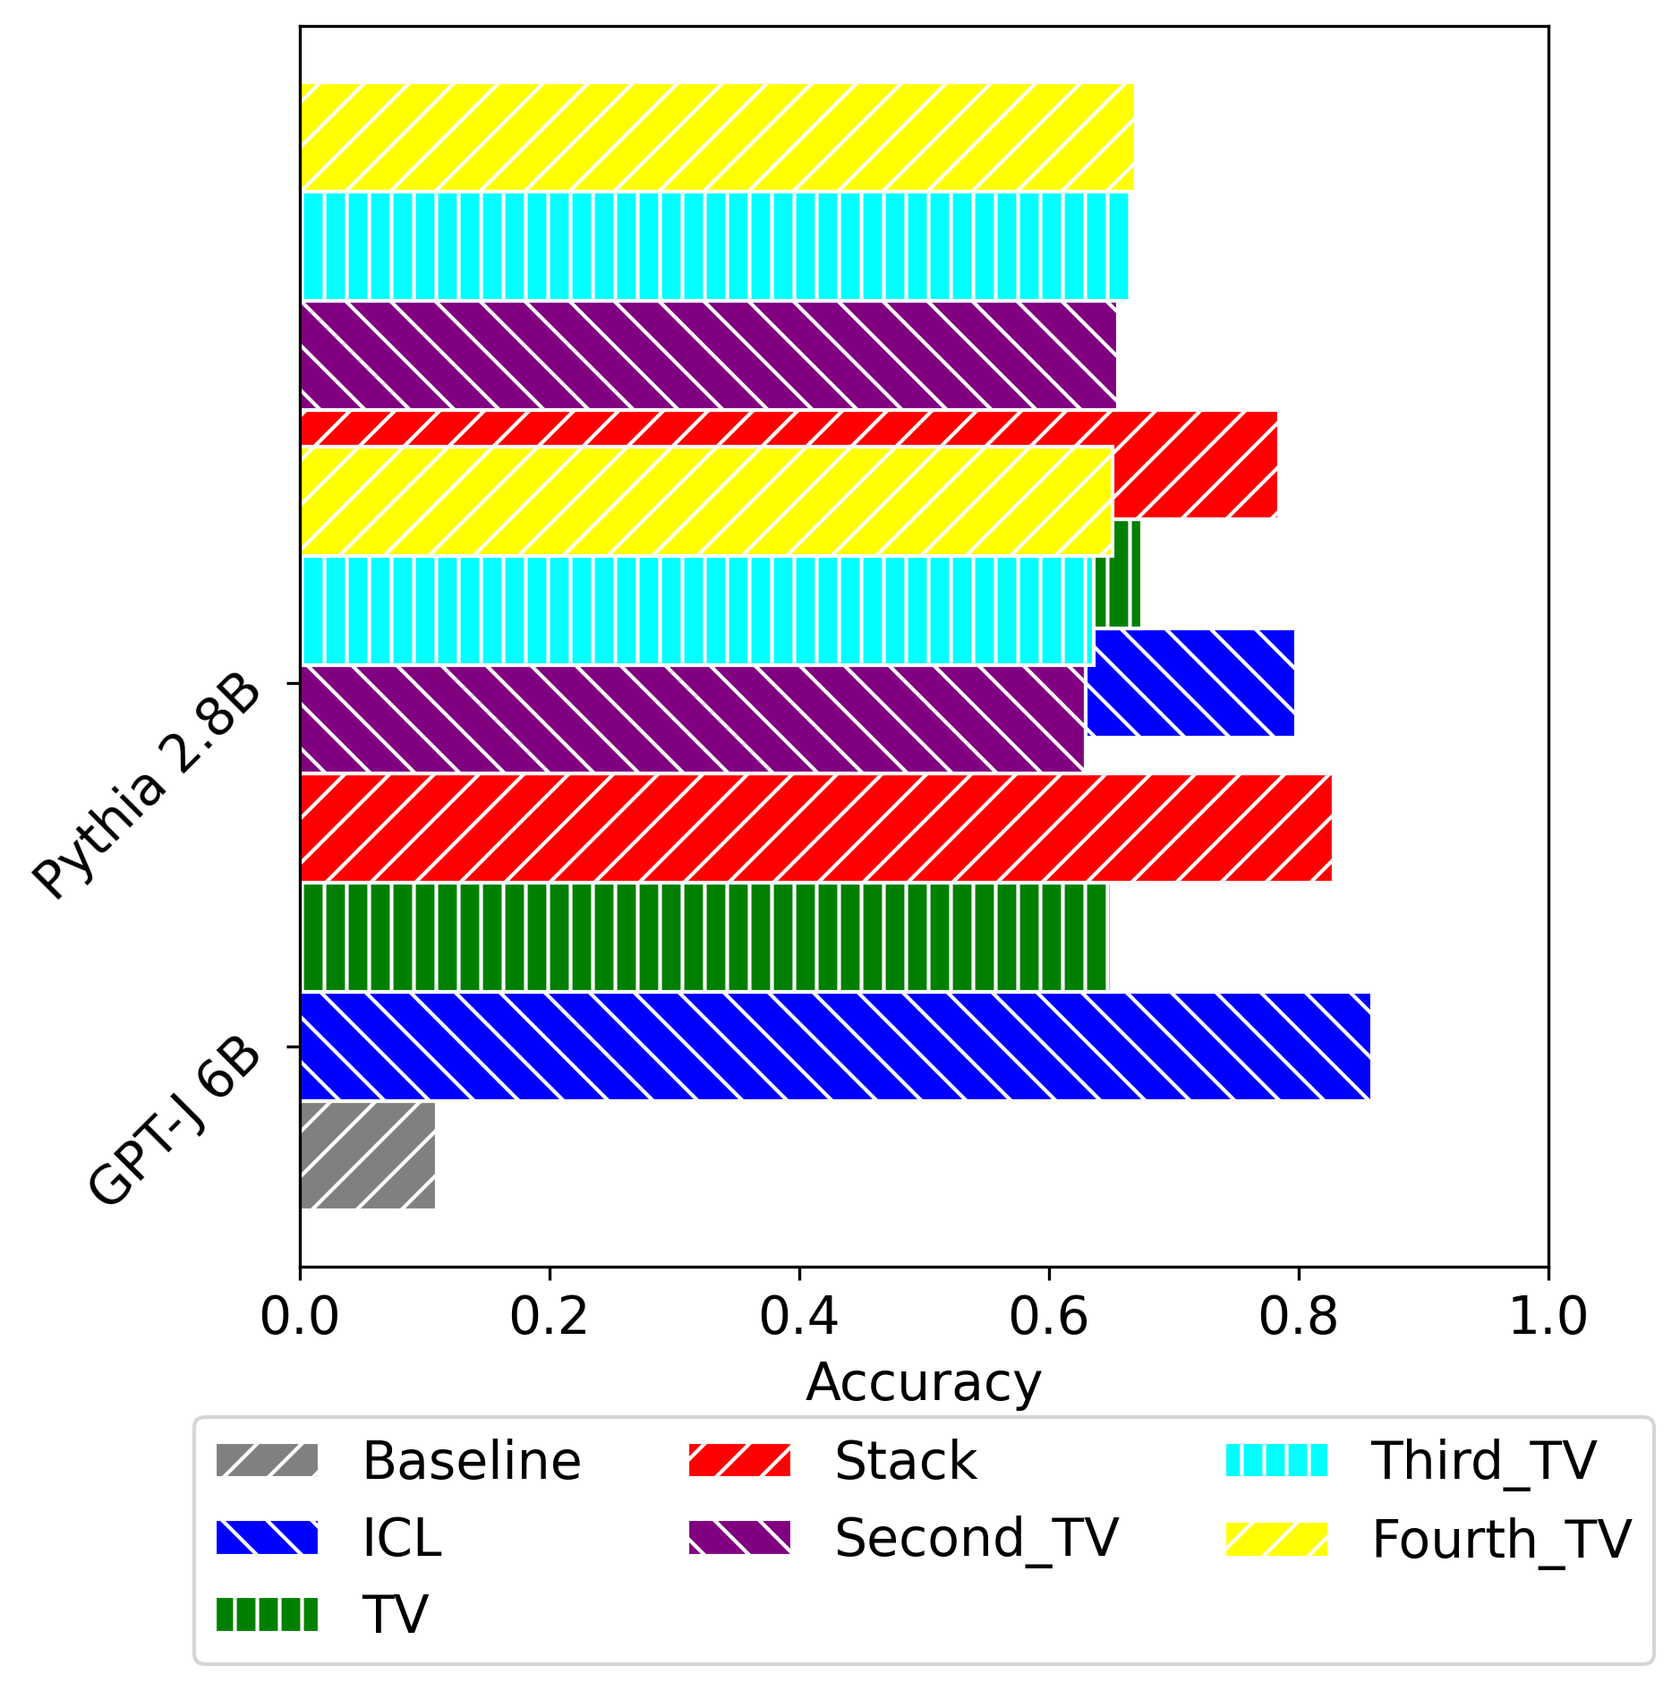
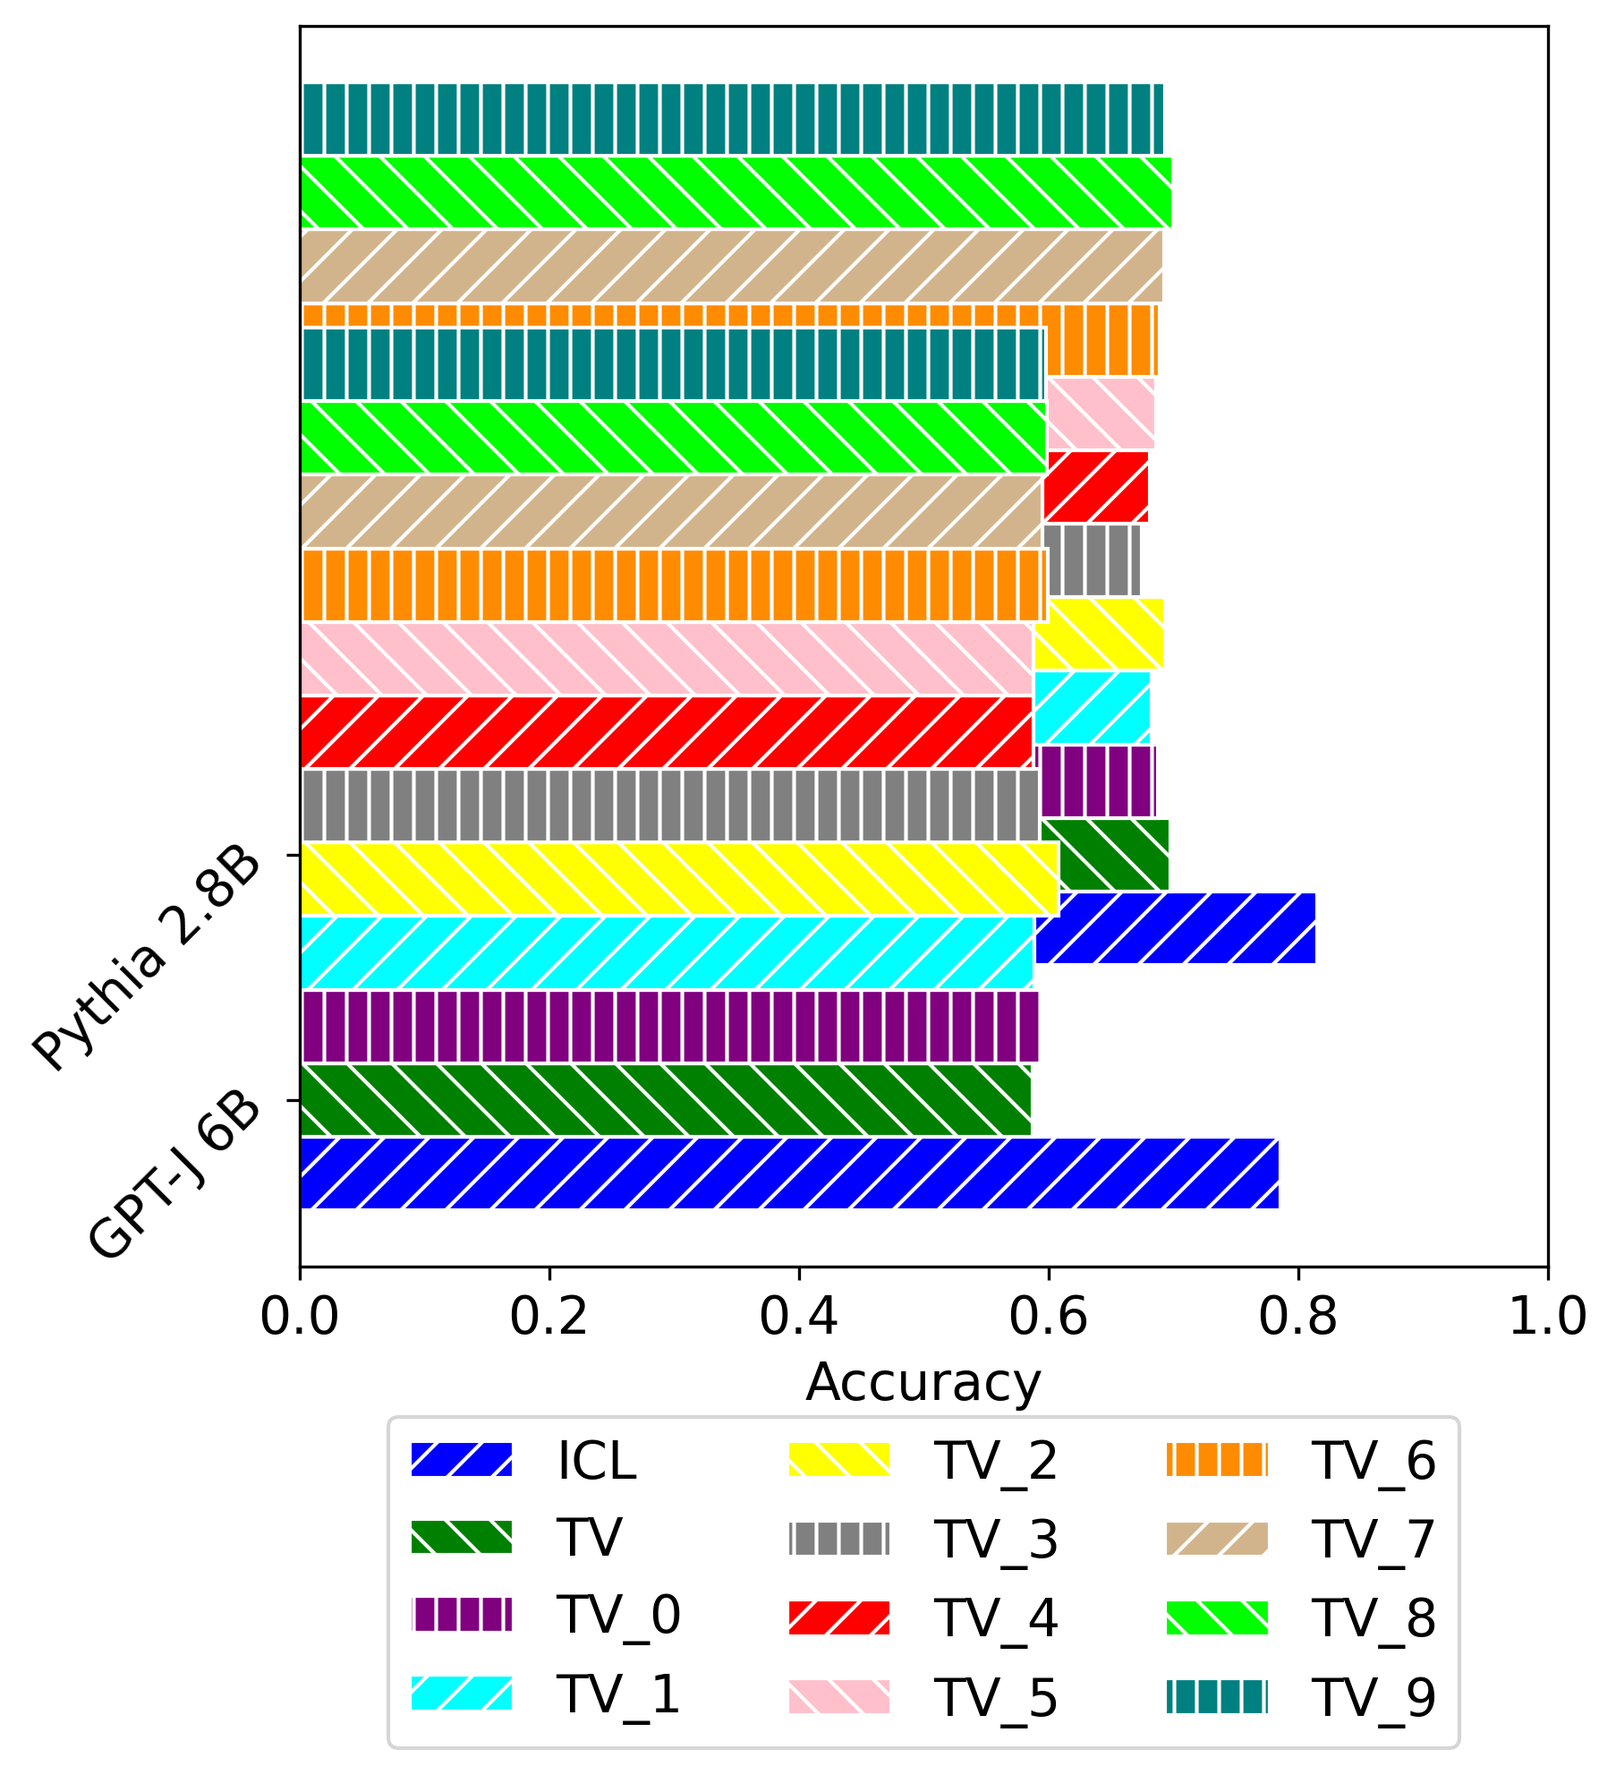
fig code

diff --git a/outputs/figures/main_experiment_results_table.tex b/outputs/figures/main_experiment_results_table.tex
@@ -1,68 +1,68 @@
 \onecolumn
 \begin{center}
 \small
-\begin{longtable}{lllrrrrrrr}
+\begin{longtable}{lllrrrrrrrrrrrrr}
 
 \caption{Complete results of the main experiment for all tasks and models.} \label{table:main_results} \\
 
 \toprule
- &  & method & Baseline & Fourth tv & Regular & Second tv & Stack & Tv & Third tv \\
-Model & Task type & Task name &  &  &  &  &  &  &  \\
+ &  & method & Baseline & Icl & Tv & Tv 0 & Tv 1 & Tv 2 & Tv 3 & Tv 4 & Tv 5 & Tv 6 & Tv 7 & Tv 8 & Tv 9 \\
+Model & Task type & Task name &  &  &  &  &  &  &  &  &  &  &  &  &  \\
 \midrule
     \endfirsthead
 
     \multicolumn{3}{c}
     {{\bfseries \tablename\ \thetable{} -- continued from previous page}} \\
     \toprule
- &  & method & Baseline & Fourth tv & Regular & Second tv & Stack & Tv & Third tv \\
-Model & Task type & Task name &  &  &  &  &  &  &  \\
+ &  & method & Baseline & Icl & Tv & Tv 0 & Tv 1 & Tv 2 & Tv 3 & Tv 4 & Tv 5 & Tv 6 & Tv 7 & Tv 8 & Tv 9 \\
+Model & Task type & Task name &  &  &  &  &  &  &  &  &  &  &  &  &  \\
 \midrule
     \endhead
     
-\multirow[t]{18}{*}{GPT-J 6B} & \multirow[t]{6}{*}{Algorithmic} & List first & 0.23 & 0.72 & 0.97 & 0.78 & 0.99 & 0.75 & 0.69 \\
- &  & List last & 0.31 & 0.56 & 0.97 & 0.59 & 0.99 & 0.51 & 0.50 \\
- &  & Next letter & 0.10 & 0.96 & 0.90 & 0.96 & 0.81 & 0.99 & 0.96 \\
- &  & Prev letter & 0.08 & 0.24 & 0.23 & 0.35 & 0.33 & 0.33 & 0.31 \\
- &  & To lower & 0.00 & 0.11 & 1.00 & 0.12 & 1.00 & 0.16 & 0.15 \\
- &  & To upper & 0.00 & 0.76 & 1.00 & 0.75 & 1.00 & 0.86 & 0.74 \\
-\cline{2-10}
- & \multirow[t]{4}{*}{Knowledge} & Country capital & 0.13 & 0.53 & 0.62 & 0.45 & 0.59 & 0.42 & 0.47 \\
- &  & Location continent & 0.04 & 0.55 & 0.69 & 0.41 & 0.46 & 0.44 & 0.59 \\
- &  & Location religion & 0.04 & 0.60 & 0.84 & 0.65 & 0.80 & 0.62 & 0.60 \\
- &  & Person language & 0.04 & 0.69 & 0.72 & 0.72 & 0.75 & 0.74 & 0.72 \\
-\cline{2-10}
- & \multirow[t]{4}{*}{Linguistic} & Antonyms & 0.41 & 0.75 & 0.84 & 0.69 & 0.85 & 0.74 & 0.71 \\
- &  & Plural singular & 0.09 & 0.70 & 0.86 & 0.76 & 0.80 & 0.78 & 0.79 \\
- &  & Present simple gerund & 0.00 & 0.72 & 0.96 & 0.69 & 0.86 & 0.72 & 0.71 \\
- &  & Present simple past simple & 0.00 & 0.66 & 0.91 & 0.55 & 0.86 & 0.65 & 0.56 \\
-\cline{2-10}
- & \multirow[t]{4}{*}{Translation} & En es & 0.24 & 0.30 & 0.36 & 0.24 & 0.41 & 0.31 & 0.29 \\
- &  & En fr & 0.23 & 0.31 & 0.38 & 0.29 & 0.39 & 0.30 & 0.31 \\
- &  & Es en & 0.12 & 0.75 & 0.86 & 0.74 & 0.88 & 0.76 & 0.72 \\
- &  & Fr en & 0.14 & 0.69 & 0.72 & 0.57 & 0.79 & 0.60 & 0.61 \\
-\cline{1-10} \cline{2-10}
-\multirow[t]{18}{*}{Pythia 2.8B} & \multirow[t]{6}{*}{Algorithmic} & List first & 0.65 & 0.90 & 1.00 & 0.88 & 1.00 & 0.94 & 0.95 \\
- &  & List last & 0.02 & 0.95 & 0.99 & 0.97 & 0.97 & 0.99 & 0.95 \\
- &  & Next letter & 0.35 & 0.78 & 0.95 & 0.70 & 0.93 & 0.74 & 0.78 \\
- &  & Prev letter & 0.04 & 0.17 & 0.23 & 0.11 & 0.14 & 0.15 & 0.19 \\
- &  & To lower & 0.00 & 0.97 & 1.00 & 0.96 & 1.00 & 1.00 & 0.94 \\
- &  & To upper & 0.00 & 0.99 & 1.00 & 0.93 & 1.00 & 0.96 & 0.97 \\
-\cline{2-10}
- & \multirow[t]{4}{*}{Knowledge} & Country capital & 0.11 & 0.53 & 0.64 & 0.53 & 0.56 & 0.53 & 0.53 \\
- &  & Location continent & 0.03 & 0.57 & 0.70 & 0.45 & 0.53 & 0.49 & 0.60 \\
- &  & Location religion & 0.04 & 0.54 & 0.69 & 0.57 & 0.71 & 0.61 & 0.55 \\
- &  & Person language & 0.04 & 0.69 & 0.68 & 0.69 & 0.69 & 0.64 & 0.69 \\
-\cline{2-10}
- & \multirow[t]{4}{*}{Linguistic} & Antonyms & 0.39 & 0.70 & 0.76 & 0.66 & 0.75 & 0.66 & 0.69 \\
- &  & Plural singular & 0.13 & 0.62 & 0.75 & 0.62 & 0.71 & 0.65 & 0.53 \\
- &  & Present simple gerund & 0.00 & 0.76 & 0.89 & 0.71 & 0.94 & 0.76 & 0.71 \\
- &  & Present simple past simple & 0.00 & 0.75 & 0.91 & 0.76 & 0.91 & 0.76 & 0.75 \\
-\cline{2-10}
- & \multirow[t]{4}{*}{Translation} & En es & 0.08 & 0.16 & 0.61 & 0.19 & 0.62 & 0.19 & 0.17 \\
- &  & En fr & 0.16 & 0.26 & 0.47 & 0.28 & 0.49 & 0.28 & 0.26 \\
- &  & Es en & 0.13 & 0.66 & 0.81 & 0.70 & 0.79 & 0.69 & 0.68 \\
- &  & Fr en & 0.15 & 0.55 & 0.71 & 0.54 & 0.74 & 0.59 & 0.59 \\
-\cline{1-10} \cline{2-10}
+\multirow[t]{18}{*}{GPT-J 6B} & \multirow[t]{6}{*}{Algorithmic} & List first & 0.23 & 0.97 & 0.75 & 0.78 & 0.69 & 0.72 & 0.74 & 0.78 & 0.72 & 0.78 & 0.74 & 0.74 & 0.76 \\
+ &  & List last & 0.31 & 0.97 & 0.51 & 0.59 & 0.50 & 0.56 & 0.49 & 0.57 & 0.59 & 0.55 & 0.50 & 0.56 & 0.54 \\
+ &  & Next letter & 0.13 & 0.78 & 0.96 & 0.99 & 0.94 & 0.89 & 0.95 & 0.97 & 0.95 & 0.94 & 0.95 & 0.93 & 0.93 \\
+ &  & Prev letter & 0.10 & 0.31 & 0.20 & 0.20 & 0.24 & 0.24 & 0.25 & 0.24 & 0.21 & 0.20 & 0.20 & 0.25 & 0.30 \\
+ &  & To lower & 0.00 & 1.00 & 0.19 & 0.23 & 0.20 & 0.25 & 0.24 & 0.24 & 0.25 & 0.19 & 0.26 & 0.20 & 0.26 \\
+ &  & To upper & 0.00 & 1.00 & 0.80 & 0.71 & 0.79 & 0.81 & 0.81 & 0.79 & 0.69 & 0.74 & 0.72 & 0.76 & 0.81 \\
+\cline{2-16}
+ & \multirow[t]{4}{*}{Knowledge} & Country capital & 0.12 & 0.65 & 0.49 & 0.40 & 0.49 & 0.53 & 0.55 & 0.38 & 0.41 & 0.45 & 0.47 & 0.41 & 0.44 \\
+ &  & Location continent & 0.01 & 0.72 & 0.50 & 0.54 & 0.45 & 0.51 & 0.40 & 0.51 & 0.49 & 0.50 & 0.47 & 0.50 & 0.46 \\
+ &  & Location religion & 0.07 & 0.85 & 0.59 & 0.72 & 0.66 & 0.74 & 0.65 & 0.70 & 0.55 & 0.65 & 0.68 & 0.68 & 0.69 \\
+ &  & Person language & 0.01 & 0.74 & 0.65 & 0.70 & 0.69 & 0.66 & 0.75 & 0.66 & 0.69 & 0.75 & 0.72 & 0.72 & 0.68 \\
+\cline{2-16}
+ & \multirow[t]{4}{*}{Linguistic} & Antonyms & 0.41 & 0.75 & 0.69 & 0.72 & 0.70 & 0.71 & 0.72 & 0.68 & 0.74 & 0.74 & 0.71 & 0.70 & 0.75 \\
+ &  & Plural singular & 0.06 & 0.91 & 0.79 & 0.69 & 0.75 & 0.85 & 0.72 & 0.72 & 0.70 & 0.76 & 0.78 & 0.80 & 0.75 \\
+ &  & Present simple gerund & 0.00 & 0.95 & 0.64 & 0.61 & 0.64 & 0.62 & 0.60 & 0.61 & 0.65 & 0.72 & 0.66 & 0.64 & 0.65 \\
+ &  & Present simple past simple & 0.00 & 0.89 & 0.64 & 0.60 & 0.68 & 0.56 & 0.65 & 0.61 & 0.64 & 0.57 & 0.59 & 0.66 & 0.61 \\
+\cline{2-16}
+ & \multirow[t]{4}{*}{Translation} & En es & 0.21 & 0.44 & 0.33 & 0.40 & 0.39 & 0.38 & 0.35 & 0.38 & 0.38 & 0.38 & 0.39 & 0.36 & 0.31 \\
+ &  & En fr & 0.22 & 0.46 & 0.47 & 0.42 & 0.44 & 0.51 & 0.41 & 0.39 & 0.47 & 0.42 & 0.42 & 0.47 & 0.45 \\
+ &  & Es en & 0.09 & 0.93 & 0.79 & 0.78 & 0.74 & 0.74 & 0.75 & 0.79 & 0.80 & 0.78 & 0.78 & 0.76 & 0.72 \\
+ &  & Fr en & 0.09 & 0.81 & 0.59 & 0.62 & 0.64 & 0.65 & 0.64 & 0.57 & 0.66 & 0.68 & 0.66 & 0.62 & 0.65 \\
+\cline{1-16} \cline{2-16}
+\multirow[t]{18}{*}{Pythia 2.8B} & \multirow[t]{6}{*}{Algorithmic} & List first & 0.65 & 1.00 & 0.94 & 0.88 & 0.95 & 0.90 & 0.96 & 0.89 & 0.94 & 0.95 & 0.94 & 0.93 & 0.91 \\
+ &  & List last & 0.02 & 0.99 & 0.99 & 0.97 & 0.95 & 0.95 & 0.96 & 0.99 & 0.97 & 0.97 & 0.99 & 0.97 & 1.00 \\
+ &  & Next letter & 0.44 & 0.93 & 0.81 & 0.76 & 0.71 & 0.78 & 0.79 & 0.82 & 0.78 & 0.76 & 0.82 & 0.80 & 0.76 \\
+ &  & Prev letter & 0.05 & 0.23 & 0.10 & 0.12 & 0.12 & 0.10 & 0.14 & 0.10 & 0.19 & 0.10 & 0.19 & 0.10 & 0.16 \\
+ &  & To lower & 0.00 & 1.00 & 0.97 & 0.97 & 0.95 & 0.94 & 0.99 & 0.97 & 0.99 & 0.95 & 0.96 & 1.00 & 0.99 \\
+ &  & To upper & 0.00 & 1.00 & 0.99 & 0.96 & 0.99 & 0.96 & 0.97 & 0.96 & 0.96 & 0.97 & 0.95 & 0.97 & 0.99 \\
+\cline{2-16}
+ & \multirow[t]{4}{*}{Knowledge} & Country capital & 0.15 & 0.54 & 0.51 & 0.50 & 0.51 & 0.53 & 0.56 & 0.47 & 0.56 & 0.47 & 0.54 & 0.45 & 0.53 \\
+ &  & Location continent & 0.03 & 0.69 & 0.51 & 0.50 & 0.50 & 0.62 & 0.42 & 0.53 & 0.46 & 0.55 & 0.50 & 0.56 & 0.54 \\
+ &  & Location religion & 0.07 & 0.79 & 0.66 & 0.65 & 0.65 & 0.71 & 0.54 & 0.61 & 0.62 & 0.64 & 0.69 & 0.65 & 0.65 \\
+ &  & Person language & 0.00 & 0.64 & 0.70 & 0.66 & 0.74 & 0.70 & 0.65 & 0.69 & 0.70 & 0.70 & 0.68 & 0.65 & 0.74 \\
+\cline{2-16}
+ & \multirow[t]{4}{*}{Linguistic} & Antonyms & 0.47 & 0.78 & 0.72 & 0.74 & 0.68 & 0.72 & 0.69 & 0.69 & 0.66 & 0.69 & 0.70 & 0.74 & 0.69 \\
+ &  & Plural singular & 0.07 & 0.86 & 0.76 & 0.79 & 0.80 & 0.79 & 0.76 & 0.78 & 0.80 & 0.85 & 0.76 & 0.82 & 0.76 \\
+ &  & Present simple gerund & 0.00 & 0.93 & 0.81 & 0.72 & 0.71 & 0.79 & 0.79 & 0.70 & 0.81 & 0.76 & 0.75 & 0.79 & 0.76 \\
+ &  & Present simple past simple & 0.02 & 0.85 & 0.75 & 0.79 & 0.71 & 0.71 & 0.71 & 0.72 & 0.74 & 0.71 & 0.75 & 0.78 & 0.74 \\
+\cline{2-16}
+ & \multirow[t]{4}{*}{Translation} & En es & 0.13 & 0.65 & 0.15 & 0.23 & 0.21 & 0.20 & 0.23 & 0.20 & 0.17 & 0.19 & 0.21 & 0.19 & 0.17 \\
+ &  & En fr & 0.10 & 0.57 & 0.29 & 0.29 & 0.26 & 0.26 & 0.24 & 0.30 & 0.28 & 0.28 & 0.28 & 0.30 & 0.30 \\
+ &  & Es en & 0.11 & 0.88 & 0.71 & 0.68 & 0.68 & 0.66 & 0.61 & 0.65 & 0.62 & 0.65 & 0.64 & 0.69 & 0.65 \\
+ &  & Fr en & 0.14 & 0.79 & 0.57 & 0.60 & 0.60 & 0.56 & 0.59 & 0.60 & 0.59 & 0.61 & 0.62 & 0.61 & 0.61 \\
+\cline{1-16} \cline{2-16}
 \bottomrule
 \end{longtable}
 

diff --git a/scripts/figures/main.py b/scripts/figures/main.py
@@ -20,15 +20,15 @@ from scripts.figures.helpers import (
 
 
 def filter_tasks_with_low_icl_accuracy(grouped_accuracies_df, regular_accuracy_threshold=0.20):
-    mask = (grouped_accuracies_df["Regular"] - grouped_accuracies_df["Baseline"]) >= regular_accuracy_threshold
+    mask = (grouped_accuracies_df["ICL"] - grouped_accuracies_df["Baseline"]) >= regular_accuracy_threshold
     filtered_task_accuracies_df = grouped_accuracies_df[mask].copy()
 
     # print the excluded model,task pairs, Hypothesis by commas
     if not mask.all():
         print(
             "Excluded:",
-            grouped_accuracies_df[~mask][["model", "task_name", "Regular"]].apply(
-                lambda x: f"({x['model']}, {x['task_name']}): {x['Regular']:.2f}", axis=1
+            grouped_accuracies_df[~mask][["model", "task_name", "ICL"]].apply(
+                lambda x: f"({x['model']}, {x['task_name']}): {x['ICL']:.2f}", axis=1
             ),
         )
     print("Num excluded / total:", (~mask).sum(), "/", len(grouped_accuracies_df))
@@ -39,7 +39,8 @@ def filter_tasks_with_low_icl_accuracy(grouped_accuracies_df, regular_accuracy_t
 def plot_avg_accuracies_per_model(grouped_accuracies_df):
     filtered_task_accuracies_df = filter_tasks_with_low_icl_accuracy(grouped_accuracies_df)
 
-    columns_to_plot = ["Regular", "TV", "Second_TV", "Third_TV", "Fourth_TV"]
+    columns_to_plot = ["ICL", "TV"] + [f"TV_{idx}" for idx in range(10)]
+    colors = ["blue", "green", "purple", "cyan", "yellow", "grey", "red", "pink", "darkorange", "tan", "lime", "teal", "peru"]
 
     # Calculate average accuracy and std deviation for each model
     df_agg = filtered_task_accuracies_df.groupby("model")[columns_to_plot].agg("mean")
@@ -56,7 +57,7 @@ def plot_avg_accuracies_per_model(grouped_accuracies_df):
     fig, ax = plt.subplots(figsize=(6, 6))
 
     bar_width = 0.3
-    hatches = ["/", "\\", "|", "/", "\\", "|", "/", "\\", "|", "/", "\\"]
+    hatches = ["/", "\\", "|", "/", "\\", "|", "/", "\\", "|", "/", "\\", "|", "/", "\\"]
     for j, column in enumerate(columns_to_plot):
         means = df_agg[column]
         y_positions = np.arange(len(means)) + (j - 1) * bar_width
@@ -66,7 +67,7 @@ def plot_avg_accuracies_per_model(grouped_accuracies_df):
             means,
             height=bar_width,
             capsize=2,
-            color=["blue", "green", "purple", "cyan", "yellow", "grey", "red"][j],
+            color=colors[j],
             edgecolor="white",
             hatch=hatches[j] * 2,
         )
@@ -81,11 +82,7 @@ def plot_avg_accuracies_per_model(grouped_accuracies_df):
 
     # show legend below the plot
     legend_elements = [
-        Patch(facecolor="blue", edgecolor="white", hatch=hatches[1] * 2, label="ICL"),
-        Patch(facecolor="green", edgecolor="white", hatch=hatches[2] * 2, label="TV"),
-        Patch(facecolor="purple", edgecolor="white", hatch=hatches[3] * 2, label="Second_TV"),
-        Patch(facecolor="cyan", edgecolor="white", hatch=hatches[4] * 2, label="Third_TV"),
-        Patch(facecolor="yellow", edgecolor="white", hatch=hatches[5] * 2, label="Fourth_TV")
+        Patch(facecolor=colors[i], edgecolor="white", hatch=hatches[i] * 2, label=name) for i, name in enumerate(columns_to_plot)
     ]
     ax.legend(handles=legend_elements, loc="upper center", bbox_to_anchor=(0.5, -0.1), ncol=3)
 
@@ -312,5 +309,5 @@ def create_all_figures(experiment_id: str):
 
 
 if __name__ == "__main__":
-    experiment_id = "10"
+    experiment_id = "12"
     create_all_figures(experiment_id)

diff --git a/outputs/figures/top_tokens_table.tex b/outputs/figures/top_tokens_table.tex
@@ -2,15 +2,15 @@
 \toprule
  &  & 0 \\
 \midrule
-\multirow[t]{4}{*}{pythia_2.8B} & algorithmic_prev_letter & OOST, aeda, HECK, CURI, thous, PARTICULAR, perty, REEK, IRST, gether, woke, ovember, CLUDING, ibase, ENSE, hov, UGH, FileType, vess, Annotation \\
- & translation_fr_en & OOST, CURI, CHANT, HECK, Lemmon, orect, PLIED, RAF, IRST, CLUDING, fileID, BASIS, ovember, aturday, Anchor, PARTICULAR, ERTY, STITUTE, gree, OLOR \\
- & linguistic_present_simple_gerund & PLIED, RAF, CHANT, YING, OOST, completing, fileID, CLUDING, turning, Accessor, unnumbered, pretending, CURI, heed, rv, ovember, HECK, satell, finishing, cler \\
- & knowledge_country_capital & thous, answ, HECK, establ, advertis, laug, OOST, uncert, CURI, POSE, orche, clust, acknow, NaN, satell, strugg, therap, behav, dun, ITERATION \\
+\multirow[t]{4}{*}{pythia_2.8B} & algorithmic_prev_letter & aeda, thous, preced, OOST, preceded, ovember, CURI, prehens, perty, preceding, estern, IRST, previous, PARTICULAR, enburg, CLUDING, advertis, alphabet, none, sg \\
+ & translation_fr_en & OOST, CURI, CHANT, HECK, Lemmon, orect, aturday, IRST, BASIS, RAF, PLIED, Anchor, fileID, CLUDING, rapeutics, ovember, quo, unnumbered, YING, ERTY \\
+ & linguistic_present_simple_gerund & PLIED, RAF, OOST, CHANT, YING, fileID, CURI, satell, Accessor, CLUDING, ovember, unnumbered, turning, IRST, completing, quo, HECK, rv, heed, pretending \\
+ & knowledge_country_capital & thous, answ, HECK, OOST, CURI, RAF, uncert, advertis, laug, establ, orche, CHANT, POSE, strugg, REEK, acknow, ITERATION, clust, fileID, behav \\
 \cline{1-3}
-\multirow[t]{4}{*}{gpt-j_6B} & algorithmic_prev_letter & b, c, name, v, s, g, i, ro, n, a, test, t, m, d, active, j, ust, open, com, ma \\
- & translation_fr_en & name, other, the, true, is, social, s, active, car, F, public, ms, whole, head, a, heart, n, one, type, b \\
- & linguistic_present_simple_gerund & storing, getting, working, playing, making, moving, doing, being, driving, using, the, putting, picking, sending, selling, shooting, reducing, creating, teaching, changing \\
- & knowledge_country_capital & London, South, West, Paris, East, New, Berlin, Tokyo, Germany, North, Chicago, The, Philadelphia, Mexico, San, Jerusalem, cities, City, Amsterdam, Moscow \\
+\multirow[t]{4}{*}{gpt-j_6B} & algorithmic_prev_letter & b, name, c, s, v, g, n, ro, i, test, a, t, m, d, active, j, open, ma, com, next \\
+ & translation_fr_en & social, other, name, time, the, law, user, force, heart, main, c, money, life, car, s, is, head, court, game, translation \\
+ & linguistic_present_simple_gerund & working, getting, storing, playing, moving, being, doing, driving, making, shooting, teaching, the, selling, writing, picking, using, feeding, talking, putting, c \\
+ & knowledge_country_capital & London, West, South, Paris, East, New, Berlin, Germany, City, Tokyo, North, Philadelphia, Chicago, Jerusalem, Mexico, San, The, cities, Moscow, s \\
 \cline{1-3}
 \bottomrule
 \end{tabular}

diff --git a/scripts/figures/helpers.py b/scripts/figures/helpers.py
@@ -51,10 +51,7 @@ def extract_accuracies(results):
                 "bl": task_results["baseline_accuracy"],
                 "icl": task_results["icl_accuracy"],
                 "tv": task_results["tv_accuracy"],
-                "stack_tv_accuracy": task_results["stack_tv_accuracy"],
-                "second_tv_accuracy": task_results["second_tv_accuracy"],
-                "third_tv_accuracy": task_results["third_tv_accuracy"],
-                "fourth_tv_accuracy": task_results["fourth_tv_accuracy"],
+                **{f"tv_{idx}": task_results[f"tv_accuracy_{idx}"] for idx in range(10)}
             }
 
     return accuracies
@@ -71,12 +68,10 @@ def create_accuracies_df(results):
             task_name = "_".join(task_full_name.split("_")[1:])
 
             data.append([model_name, task_type, task_name, "Baseline", task_acc["bl"]])
-            data.append([model_name, task_type, task_name, "Regular", task_acc["icl"]])
+            data.append([model_name, task_type, task_name, "ICL", task_acc["icl"]])
             data.append([model_name, task_type, task_name, "TV", task_acc["tv"]])
-            data.append([model_name, task_type, task_name, "Stack", task_acc["stack_tv_accuracy"]])
-            data.append([model_name, task_type, task_name, "Second_TV", task_acc["second_tv_accuracy"]])
-            data.append([model_name, task_type, task_name, "Third_TV", task_acc["third_tv_accuracy"]])
-            data.append([model_name, task_type, task_name, "Fourth_TV", task_acc["fourth_tv_accuracy"]])
+            for idx in range(10):
+                data.append([model_name, task_type, task_name, f"TV_{idx}", task_acc[f"tv_{idx}"]])
 
     df = pd.DataFrame(data, columns=["model", "task_type", "task_name", "method", "accuracy"])
 
